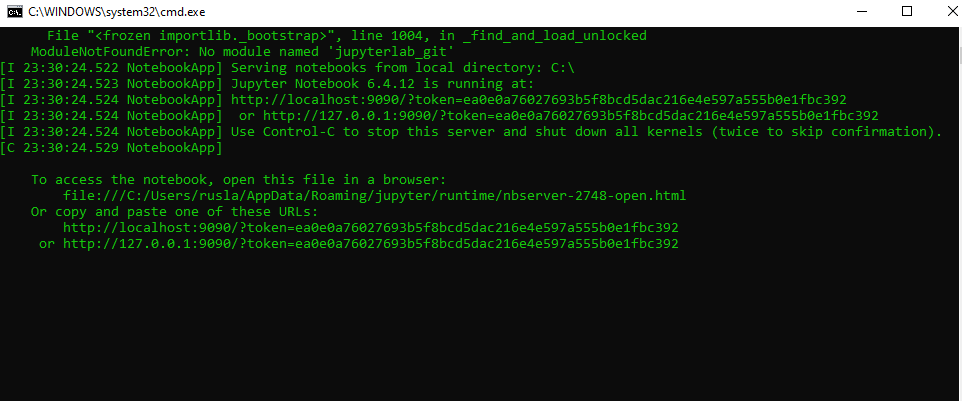
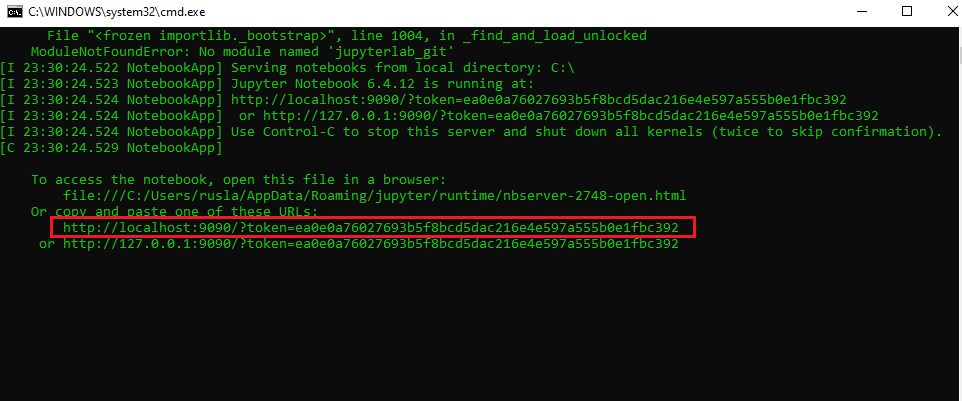
update
update

Changed region(s): [[0.0312, 0.5387, 0.7484, 0.5985]]

diff --git a/_posts/2022-01-24-How-to-connect-Google-Colab-to-your-computer.md b/_posts/2022-01-24-How-to-connect-Google-Colab-to-your-computer.md
@@ -136,7 +136,8 @@ Also you can automatize the method by creation a .bat file in notepad with the f
 
 ```
 echo Google Colab is startig!!
-cmd "/c conda activate colab && jupyter serverextension enable --py jupyter_http_over_ws && jupyter notebook --NotebookApp.allow_origin='https://colab.research.google.com' \ --port=9090 --no-browser && start chrome https://colab.research.google.com"
+cmd "/c start chrome https://colab.research.google.com"
+cmd "/c conda activate colab && jupyter serverextension enable --py jupyter_http_over_ws && jupyter notebook --NotebookApp.allow_origin='https://colab.research.google.com' \ --port=9090 --no-browser"
 cmd /k
 ```
 
@@ -152,13 +153,13 @@ then you have your executable bat
 
 
 
-you click
+when you click, will be open two windows, one is the google colab an the other the screen where you have to copy the localhost address.
 
 
 
 ![image-20220629233110422](../assets/images/posts/2022-01-24-How-to-connect-Google-Colab-to-your-computer/image-20220629233110422.png)
 
-and copy the last value to your google colab .
+and copy the last values in red and paste in your google colab .
 
 **Uninstall**
 
@@ -166,6 +167,8 @@ If you dont need the enviroment you can delete by typing
 
 ```
 conda remove -n colab --all
+cd Desktop
+rm colab_local.bat
 ```
 
 
